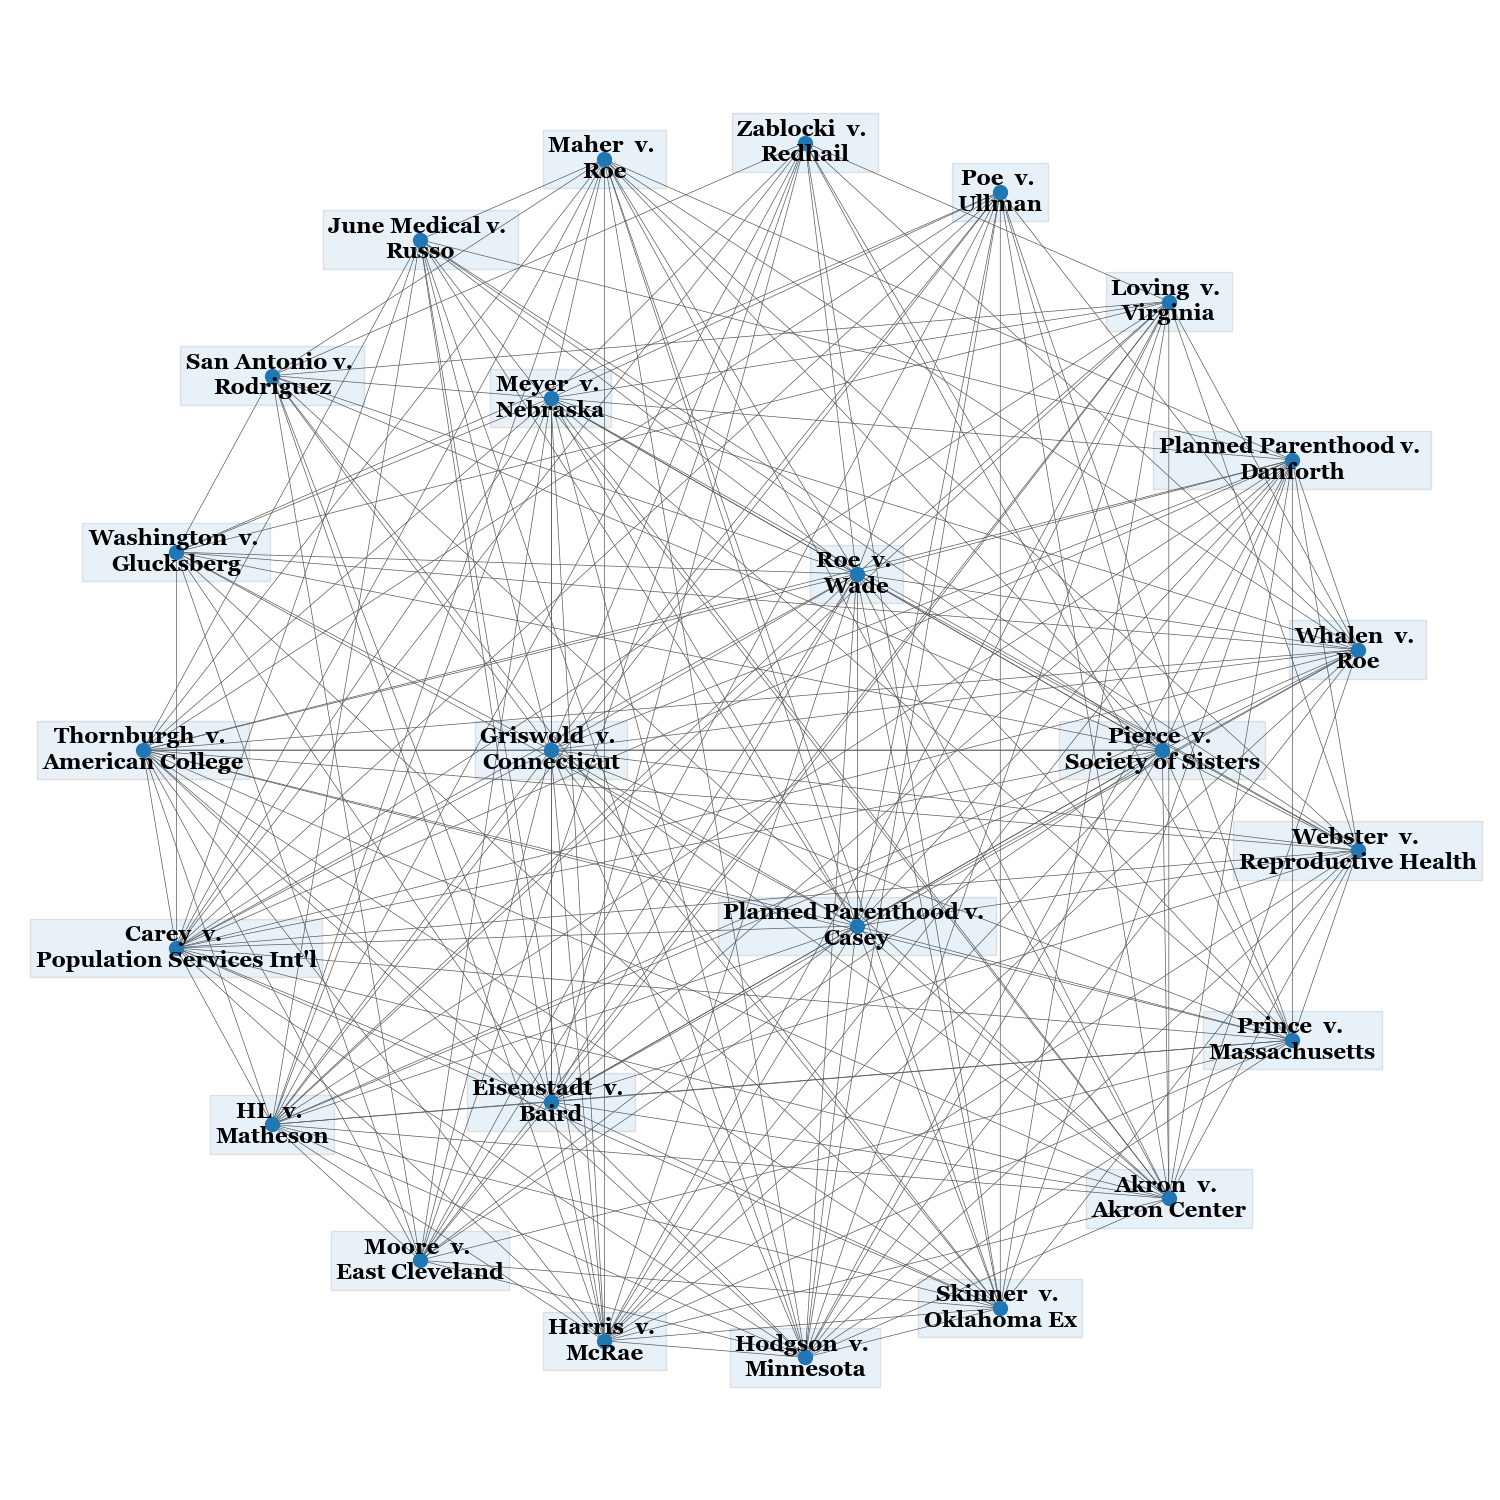
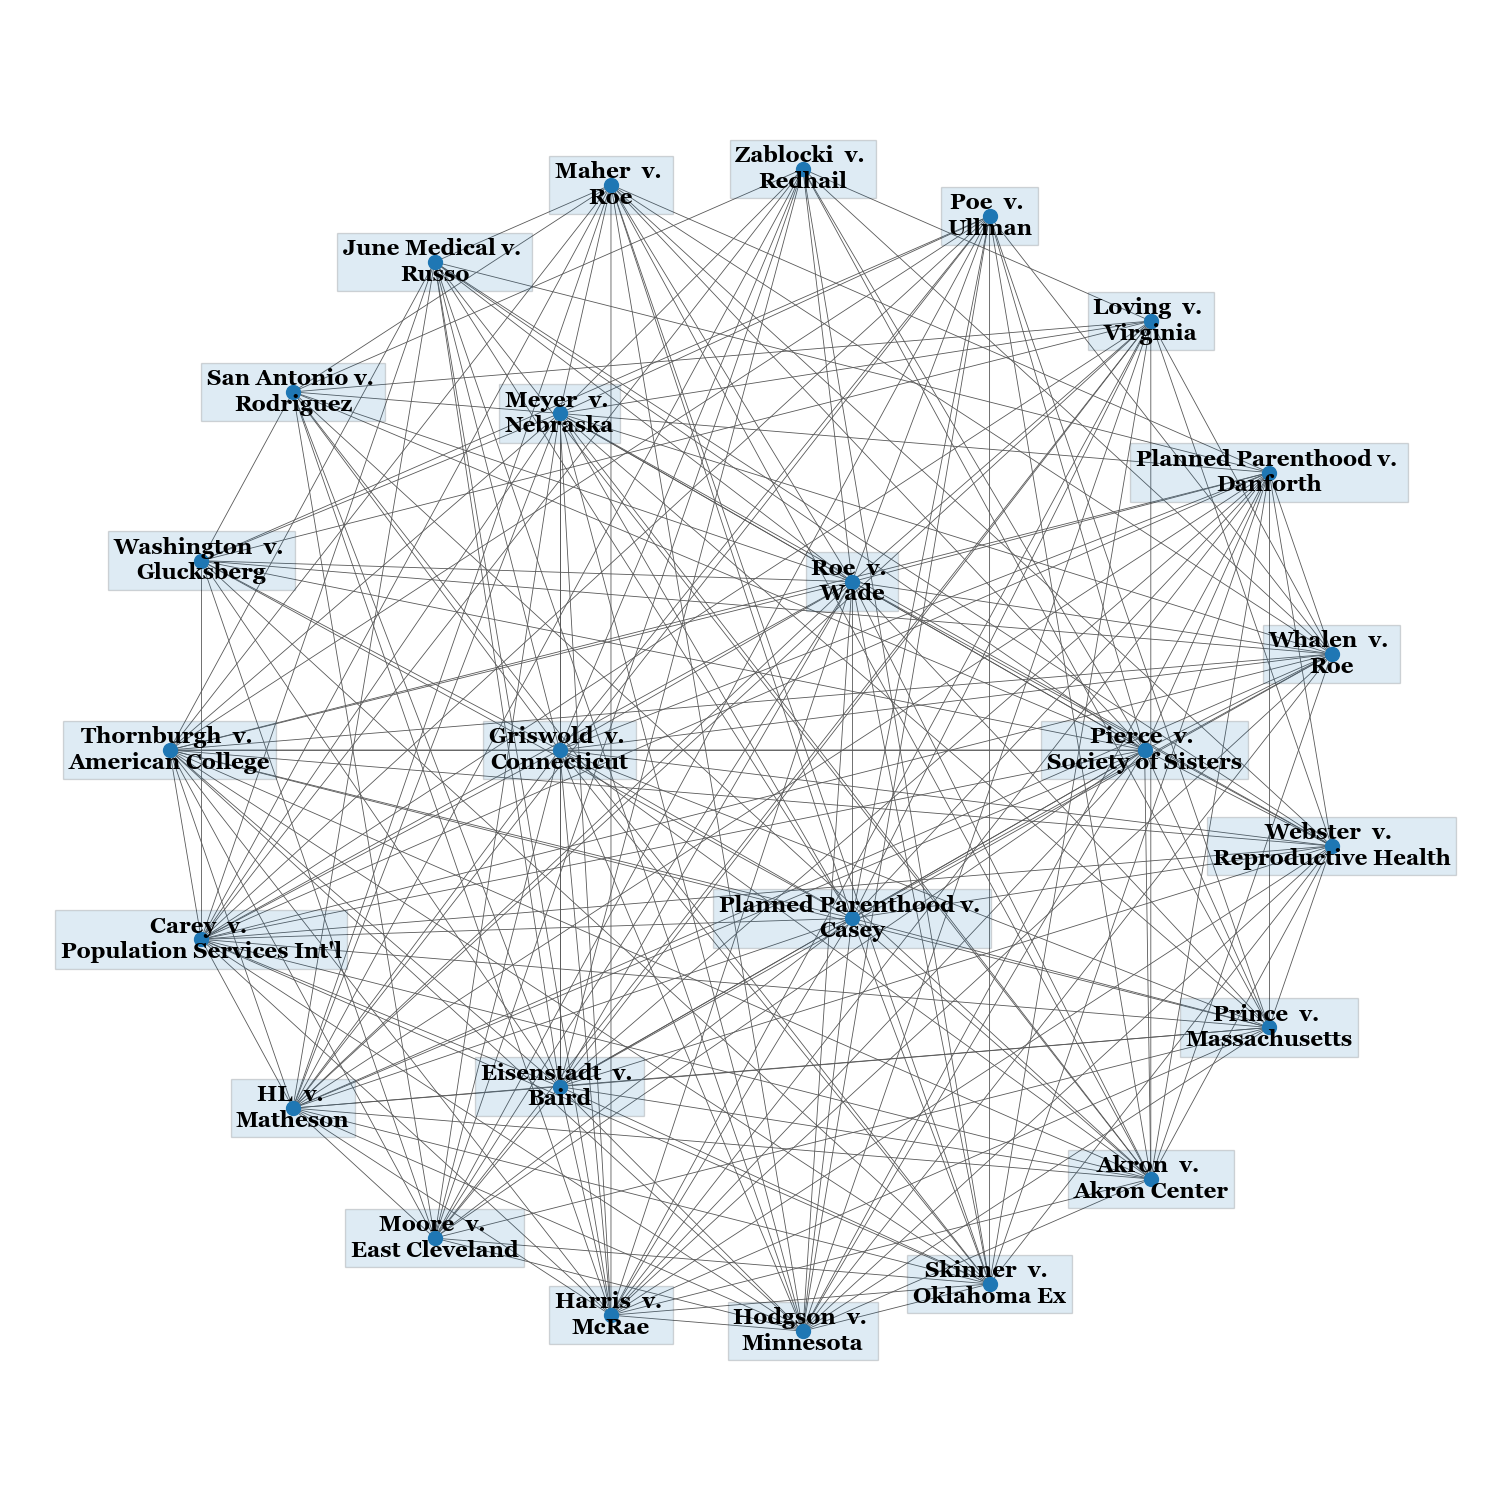
Tweak output plot formatting

Changed region(s): [[0.0307, 0.0613, 0.9813, 0.92]]

diff --git a/visualize_graph.py b/visualize_graph.py
@@ -5,7 +5,7 @@ from db_models import Opinion
 
 plt.figure(figsize=(15, 15), frameon=False)
 
-bbox = dict(alpha=0.1)
+bbox = dict(alpha=0.15)
 
 citation_graph = construct_graph()
 roe_ego = nx.ego_graph(citation_graph, 108713, 1)
@@ -31,13 +31,13 @@ subgraph = nx.subgraph(roe_ego, top_opinions)
 subgraph = nx.relabel_nodes(subgraph, name_map)
 graph_pos = nx.shell_layout(subgraph, [top_opinion_names[:3], top_opinion_names[3:6], top_opinion_names[6:]])
 nx.draw_networkx_nodes(subgraph, graph_pos, node_size=100)
-nx.draw_networkx_edges(subgraph, graph_pos, width=0.5, edge_color="#585858")
+nx.draw_networkx_edges(subgraph, graph_pos, width=0.6, edge_color="#585858")
 nx.draw_networkx_labels(subgraph, graph_pos, font_size=16, font_family="Georgia", font_weight="bold", bbox=bbox)
 
 plt.axis('off')
 axis = plt.gca()
-axis.set_xlim([1.1*x for x in axis.get_xlim()])
-axis.set_ylim([1.1*y for y in axis.get_ylim()])
+axis.set_xlim([1.15*x for x in axis.get_xlim()])
+axis.set_ylim([1.15*y for y in axis.get_ylim()])
 plt.tight_layout()
 plt.savefig("output/ego-plot.png")
 plt.show()
